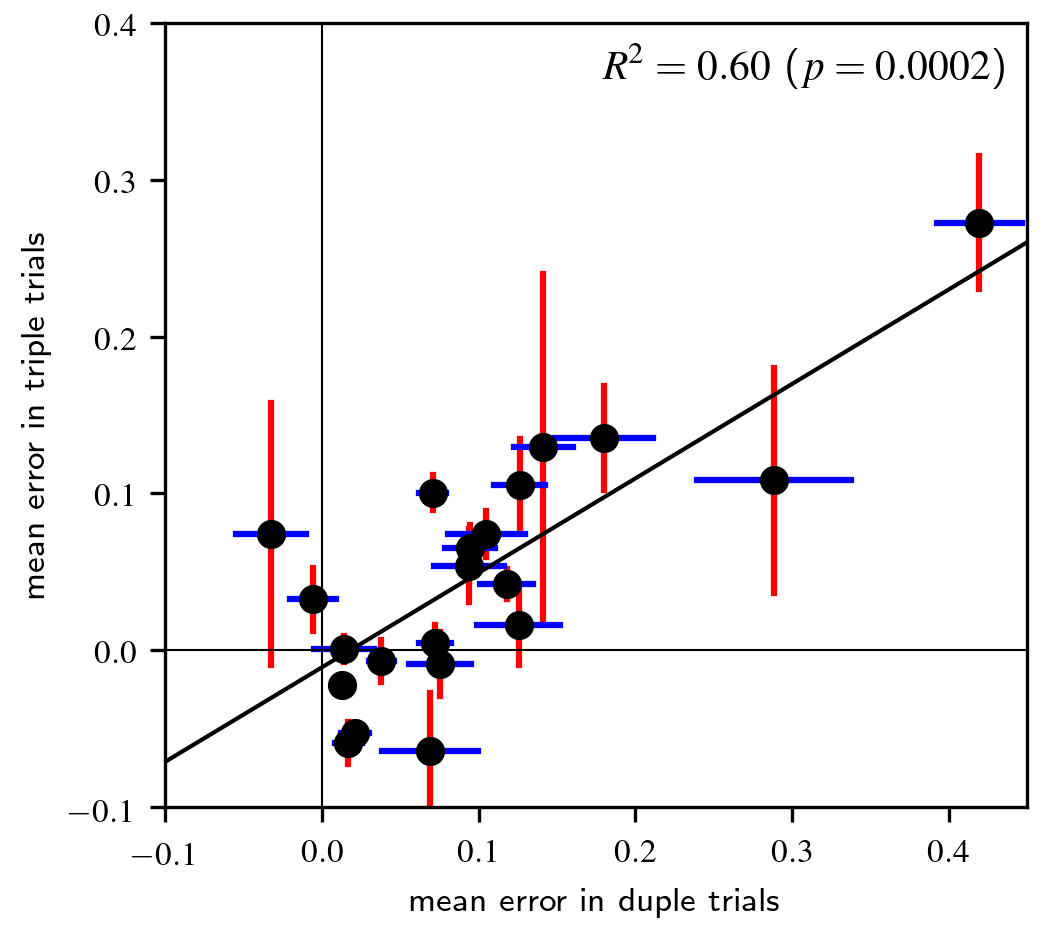
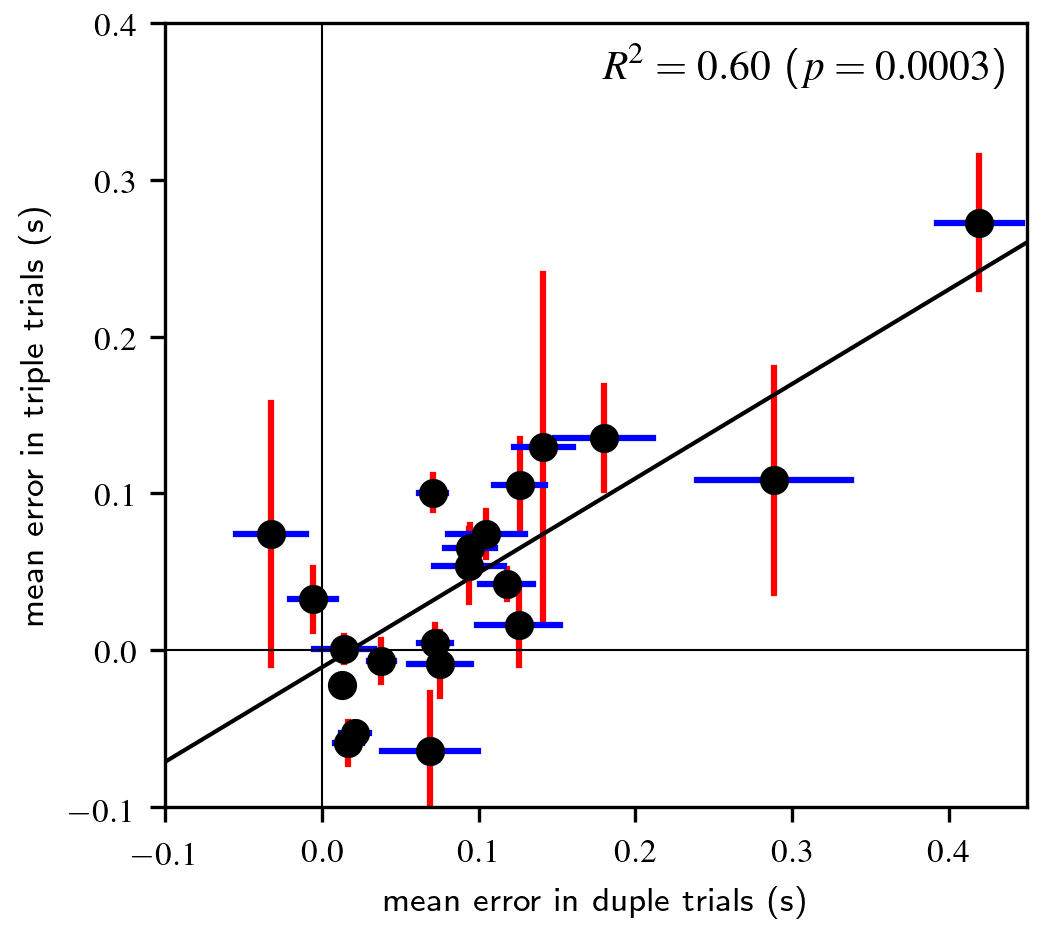
Corrected missing axes

Changed region(s): [[0.0, 0.2183, 0.0621, 0.6548], [0.3729, 0.9355, 0.7458, 0.9978], [0.9011, 0.0624, 0.9322, 0.0935]]

diff --git a/basicAnalysis_behavioral.py b/basicAnalysis_behavioral.py
@@ -214,17 +214,18 @@ snare_wb_slope_p = (np.sum((snare_wb_slope_permute >= snare_wb_regress[0])) + 1
 
 fig = plt.figure(figsize=(3.54, 3.1))
 ax1 = fig.add_subplot(111, aspect='equal')
-ax1.scatter(snare_mean_performance, wb_mean_performance, c='k')
-[ax1.plot([s,s], [w-ws, w+ws], 'r-')
+ax1.scatter(snare_mean_performance, wb_mean_performance, c='k',
+        zorder=1000)
+[ax1.plot([s,s], [w-ws, w+ws], 'r-', zorder=1)
         for s, w, ws in zip(snare_mean_performance, wb_mean_performance,
             wb_se_performance)]
-[ax1.plot([s-ss,s+ss], [w, w], 'b-')
+[ax1.plot([s-ss,s+ss], [w, w], 'b-', zorder=1)
         for s, ss, w in zip(snare_mean_performance, snare_se_performance,
             wb_mean_performance)]
 ax1.axhline(0, c='k', lw=0.5)
 ax1.axvline(0, c='k', lw=0.5)
-ax1.set_xlabel('mean error in duple trials')
-ax1.set_ylabel('mean error in triple trials')
+ax1.set_xlabel('mean error in duple trials (s)')
+ax1.set_ylabel('mean error in triple trials (s)')
 ax1.text(0.975, 0.975, r'$R^2=%.2f$ ($p=%.4f$)' % (snare_wb_r2, snare_wb_slope_p),
         ha='right', va='top', fontsize=10, transform=ax1.transAxes)
 ax1.set_xlim([-0.1,0.45])
